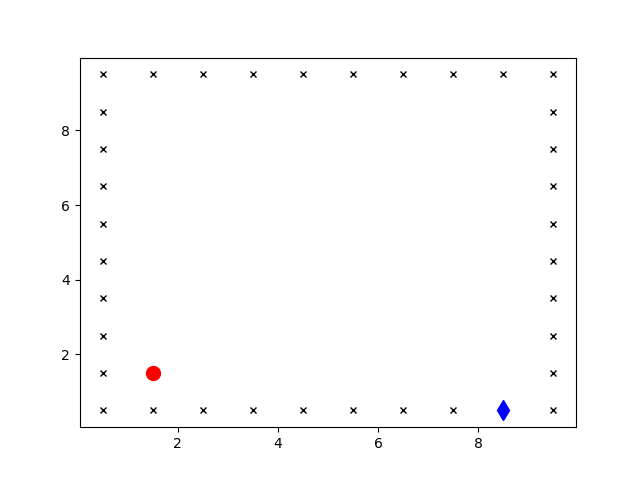
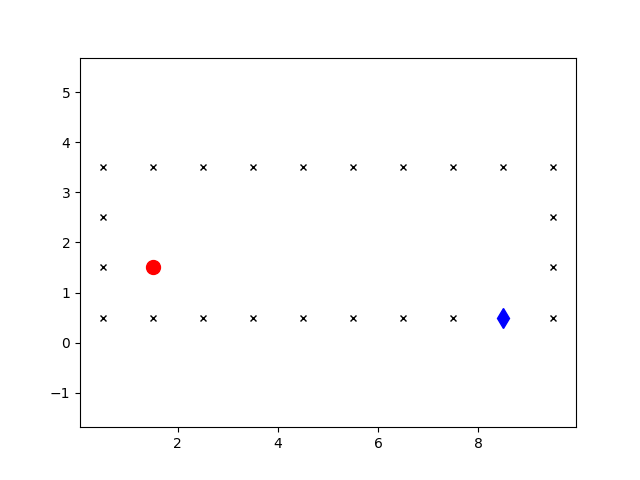
Still does not work

diff --git a/main.py b/main.py
@@ -7,9 +7,9 @@ from maze import *
 
 n_hidden = 30
 n_episodes = 2000
-e = 0.1
-gamma= 0.99
-lr = 0.001
+e = 0.01
+gamma= 0.1
+lr = 0.0001
 
 maze = Maze(height=10,width=10)
 
@@ -17,6 +17,7 @@ maze = Maze(height=10,width=10)
 
 fig = plt.figure()
 ax = fig.gca()
+ax.axis('equal')
 maze.draw_maze(ax)
 fig.savefig('fig_maze')
 
@@ -31,20 +32,21 @@ pos = tf.placeholder(shape=[1,2],dtype=tf.float32)
 layer = tf.contrib.layers.fully_connected(inputs=pos,
                                           num_outputs=n_hidden,
                                           weights_initializer=tf.random_normal_initializer)
-layer = tf.contrib.layers.fully_connected(inputs=layer,num_outputs=n_hidden)
-layer = tf.contrib.layers.fully_connected(inputs=layer,num_outputs=n_hidden)
-Qout = tf.contrib.layers.fully_connected(inputs=layer,
-                                         num_outputs=4,
-                                         activation_fn=None,
-                                         weights_initializer=tf.random_normal_initializer)
-predict = tf.argmax(Qout,axis=1)
+# layer = tf.contrib.layers.fully_connected(inputs=layer,num_outputs=n_hidden)
+# layer = tf.contrib.layers.fully_connected(inputs=layer,num_outputs=n_hidden)
+layer = tf.contrib.layers.fully_connected(inputs=layer,
+                                          num_outputs=4,
+                                          activation_fn=None,
+                                          weights_initializer=tf.random_normal_initializer)
 
+Qout = layer
+
+predict = tf.argmax(Qout,axis=1)
 
 nextQ = tf.placeholder(shape=[1,4],dtype=tf.float32)
 loss = tf.reduce_sum(tf.square(nextQ-Qout))
 trainer = tf.train.GradientDescentOptimizer(learning_rate=lr)
 trainOp = trainer.minimize(loss)
-
 init = tf.initialize_all_variables()
 
 
@@ -114,18 +116,17 @@ with tf.Session() as sess:
             # Find next action for current state
             action,allQ = sess.run([predict,Qout],feed_dict={pos: xy})
 
-
-            if np.mod(i,100)!=0:
-                # With probability e, take a random action
-                if np.random.rand(1) < e:
-                    action = np.random.randint(4)
+            # if np.mod(i,100)!=0:
+            #     # With probability e, take a random action
+            if np.random.rand(1) < e:
+                print('Random!')
+                action = np.random.randint(4)
             
             # Perform step
             maze.take_action(action)
             
-
             # Get new position
-            new_xy = maze.state.reshape(1,2)/10
+            new_xy = maze.state.copy().reshape(1,2)/10
             
             # Get reward
             r,t = maze.get_positional_reward()
@@ -135,7 +136,7 @@ with tf.Session() as sess:
 
             # Give reward for going right
             if action == 2:
-                reward += 0.0
+                reward += 0.05
 
             reward += r
             
@@ -144,29 +145,31 @@ with tf.Session() as sess:
             Qtarget = allQ.copy()
 
             if not t:
-                Qtarget[0,action] = reward + gamma*np.max(Qnew)
+                Qtarget[0,action] += reward + gamma*np.max(Qnew)
             else:
-                Qtarget[0,action] = reward
+                Qtarget[0,action] += reward
 
-            _,loss_value =sess.run([trainOp,loss],feed_dict={pos: new_xy,nextQ:Qtarget})
+            m=0
+            while m<1:
+                _,loss_value =sess.run([trainOp,loss],feed_dict={pos: xy,nextQ:Qtarget})
+                m += 1
             
-            xy = new_xy
+            xy = new_xy.copy()
 
             if np.mod(i,500)==0:
                 print('reward = %4.4f' %(reward))
                 maze.draw_maze(ax)
                 plt.pause(0.01)
+                embed()
 
             # If termination is True, break
             if t:
                 jlist.append(j)
                 rlist.append(reward)
                 break
-                
+    
             j +=1
             
-        
-        
 rlist = np.array(rlist)
 jlist = np.array(jlist)
 

diff --git a/maze.py b/maze.py
@@ -21,9 +21,9 @@ class Maze():
         self.state = np.array(self.start_state)
         self.target = np.array([self._width-2,0])
         self.memory = []
-        self.border_penalty = -5
-        self.step_penalty = -0.1
-        self.target_reward = 5
+        self.border_penalty = -0.2
+        self.step_penalty = -0.003
+        self.target_reward = 2
         self.score = 0
 
 
@@ -38,7 +38,7 @@ class Maze():
         w = self._width
 
         self.border = []
-        self.maze_grid = np.zeros(shape=(h,w),dtype=object)
+        self.maze_grid = np.zeros(shape=(w,h),dtype=object)
         for y in range(h):
             for x in range(w):
                 self.maze_grid[x,y] = [x,y]
